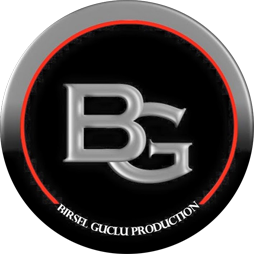
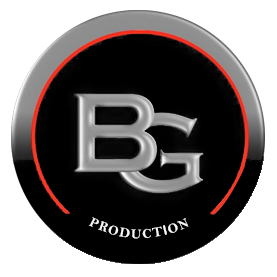
fnished

diff --git a/screens/CountDownScreen.js b/screens/CountDownScreen.js
@@ -1,6 +1,6 @@
 import React ,{ Component } from 'react';
 import {View , Text, StyleSheet,Dimensions, Platform, Image } from 'react-native';
-import { Constants, Permissions, Notifications } from 'expo';
+import { Constants, Permissions, Notifications, FacebookAds } from 'expo';
 import { connect } from 'react-redux';
 import * as actions from '../actions';
 import PercentageCircle from 'react-native-percentage-circle';
@@ -44,6 +44,18 @@ class CountDownScreen extends Component {
              );
              return;
              }
+
+            if(Platform.OS === 'android'){
+              FacebookAds.InterstitialAdManager.showAd('449422098768727_449426018768335')
+                 .then(didClick => {})
+                 .catch(error => {})
+            }else{
+              FacebookAds.InterstitialAdManager.showAd('449422098768727_449426618768275')
+                 .then(didClick => {console.log("clicked ad");})
+                 .catch(error => {console.log("error:", error);})
+            }
+
+
          }
 
 
@@ -162,18 +174,42 @@ class CountDownScreen extends Component {
           }
         }
 
+        _renderBanner(){
+            if(Platform.OS === 'android'){
+              return(
+              <FacebookAds.BannerView
+                placementId="449422098768727_449423225435281"
+                type="standard"
+                onPress={() => console.log('click')}
+                onError={(err) => console.log('error', err)}
+              />
+          )
+          }else{
+            return(
+              <FacebookAds.BannerView
+                placementId="449422098768727_449426432101627"
+                type="standard"
+                onPress={() => console.log('click')}
+                onError={(err) => console.log('error', err)}
+              />
+            )
+
+
+          }
+        }
+
         _renderCircle(){
           if(Platform.OS === 'android'){
             return(
                 <AndroidCircle radius={105} percent={this.state.percent} borderWidth ={12} color={"#640204"} innerColor={"#7E8B7D"}>
-                  <Text style={[styles.percentText]}> {this.state.status == "idle" ? "Sayacı Başlatınız" :  this.state.percent + " %"  }</Text>
+                  <Text style={[styles.percentText]}> {this.state.status == "idle" ? "Sayacı Başlatınız" :  " % " + this.state.percent  }</Text>
                   <Text style={[styles.countDownText]}>{this.state.humanize ? this.state.humanize : this.secondToHuminzeString(this.props.selectedRoute.Km) } </Text>
                </AndroidCircle>
             )
           }else{
             return(
                 <PercentageCircle radius={105} percent={this.state.percent} borderWidth ={12} color={"#640204"} innerColor={"#7E8B7D"}>
-                  <Text style={[styles.percentText]}> {this.state.status == "idle" ? "Sayacı Başlatınız" :  this.state.percent + " %"  }</Text>
+                  <Text style={[styles.percentText]}> {this.state.status == "idle" ? "Sayacı Başlatınız" : " % " + this.state.percent  }</Text>
                   <Text style={[styles.countDownText]}>{this.state.humanize ? this.state.humanize : this.secondToHuminzeString(this.props.selectedRoute.Km) } </Text>
                </PercentageCircle>
             )
@@ -202,22 +238,24 @@ class CountDownScreen extends Component {
            <Card style={styles.cardStyle}>
             <Text style={styles.cardText}>Toplam Mesafe</Text>
             <View style={{flexDirection:'row',justifyContent :'center', alignItems:'flex-end'}}>
-            <Text style={{fontSize:21, fontWeight: '700',color:'#fff'}}>{this._ınfoKM()} </Text>
-            <Text style={{fontSize:13,fontWeight:'700', color :'#fff',paddingBottom:2 }}>KM</Text>
+            <Text style={{fontSize:24, fontWeight: '700',color:'#fff'}}>{this._ınfoKM()} </Text>
+            <Text style={{fontSize:18,fontWeight:'700', color :'#fff',paddingBottom:2 }}>KM</Text>
             </View>
            </Card>
            <Card style={styles.cardStyle}>
             <Text style={styles.cardText}>Tahmini Varış</Text>
             <View style={{flexDirection:'row',justifyContent :'center', alignItems:'flex-end'}}>
-            <Text style={{fontSize:21, fontWeight: '700',color:'#fff'}}>{this.state.humanizeEndTime} </Text>
+            <Text style={{fontSize:24, fontWeight: '700',color:'#fff',textAlign:'center'}}>{this.state.humanizeEndTime} </Text>
             </View>
            </Card>
           </View>
+
           <View style={{height: 70, width : width ,paddingTop:20}}>
             <Button onPress={() => this._startTimer()}>{this._renderButton()}</Button>
           </View>
         </View>
       </View>
+      {this._renderBanner()}
       </Image>
     );
   }
@@ -234,6 +272,7 @@ const styles ={
   percentText: {
     fontSize: 21,
     paddingBottom : 15,
+    fontWeight:'600',
     alignItems : 'center',
     alignSelf: 'center',
     color: "#fff"
@@ -241,7 +280,7 @@ const styles ={
   },
   countDownText :{
     fontSize : 24,
-    fontWeight : '500',
+    fontWeight : '600',
     alignItems : 'center',
     alignSelf :'center',
     color: "#fff"
@@ -274,9 +313,9 @@ const styles ={
 
   },
   cardText:{
-    fontSize : 13,
+    fontSize : 14,
     color :'#fff',
-    fontWeight :'500',
+    fontWeight :'700',
     paddingLeft:10,
     paddingRight : 10
   }

diff --git a/screens/OldTripsScreen.js b/screens/OldTripsScreen.js
@@ -31,21 +31,24 @@ class OldTripsScreen extends Component {
 	}
 
 
+
   static navigationOptions = ({ navigation }) => {
+    const { params = {} } = navigation.state;
     return {
-      headerTitle : 'Otoban Sayaç',
-      headerRight: <Icon
-        iconStyle = {styles.iconStyle}
-        name='info-outline'
-        color="rgba(0,122,255,1)"
-        onPress={() => navigation.navigate('info')}
-        />,
-      headerLeft : null,
+      headerTitle : 'Otoyol Süresi',
+      headerLeft: <Text style={{fontSize:12,fontWeight:'500', color: '#fff', width:70, alignItems:'center',textAlign:'center',marginLeft:10}} onPress={() => navigation.navigate('info')}>Hakkımızda</Text>,
+      headerTitleStyle: {
+        fontSize : 21,
+        alignSelf :'center',
+        textAlign: 'center'
+      },
+        headerRight: <Text style={{fontSize:12,fontWeight:'500', color: '#fff', width:60, alignItems:'center',textAlign:'center',marginRight:10 }} onPress={()=> params.handleRemove()}> Kayıtlı verileri sil </Text>,
         headerTintColor: "#fff",
         headerStyle : {
           marginTop : Platform.OS === 'android' ? 24 : 0,
           paddingBottom: 10,
-          backgroundColor : "#267689"
+          backgroundColor : "#267689",
+
         },
         tabBarVisible : false,
     }
@@ -66,6 +69,14 @@ class OldTripsScreen extends Component {
     }
 
   }
+
+  _removeAllItems() {
+      this.props.removeAllTrips();
+    }
+
+    componentDidMount() {
+     this.props.navigation.setParams({ handleRemove: this._removeAllItems.bind(this) });
+   }
 
   removeItem = (item,secId,rowId) => {
       this.props.removeOldTrip(rowId);
@@ -168,7 +179,7 @@ const styles = {
     flex :1
   },
   iconStyle : {
-    marginRight : 10
+    marginLeft : 10
   },
 	rowFront: {
 		alignItems: 'center',
@@ -177,13 +188,16 @@ const styles = {
 		borderBottomColor: '#95a5a6',
 		borderBottomWidth: 2,
 		justifyContent: 'space-between',
-		height: 50,
+		height: 60,
 	},
   warningText : {
     color : '#e8210b',
-    fontSize :14,
-    alignItems : 'flex-end',
-    paddingRight:10
+    fontSize :16,
+    fontWeight:'500',
+    width: width / 3 - 10 ,
+    justifyContent : 'flex-end',
+    textAlign:'right',
+    paddingRight:5
   },
 	rowBack: {
 		alignItems: 'center',
@@ -194,9 +208,11 @@ const styles = {
 		paddingLeft: 15,
 	},
   removeText :{
-    paddingLeft: 10,
+    paddingLeft: 5,
     alignContent:'flex-start',
-    fontSize :14,
+    fontSize :16,
+    fontWeight:'500',
+    width: width * 2 / 3 + 5,
     color : '#000'
   },
   skipButton:{
@@ -211,6 +227,8 @@ const styles = {
     marginTop:50,
     backgroundColor :'rgba(0,0,0,0)',
     alignItems:'center',
+    justifyContent:'center',
+    textAlign:'center',
     alignSelf :'center',
     color: '#C9CFD4'
   },

diff --git a/screens/InfoScreen.js b/screens/InfoScreen.js
@@ -20,7 +20,11 @@ class InfoScreen extends Component {
       <Image source={require('../img/form.png')}
       style={styles.backgroundImage}>
         <View style={styles.container}>
-          <Image source={require('../img/guclu.png')} style={{width:170, height:170}}/>
+          <Text style={{fontSize: 32, color:'#000', fontWeight:'700', textAlign:'center', justifyContent:'center', backgroundColor:'rgba(0,0,0,0)',paddingBottom:40}}>Ana sponsor </Text>
+          <Image source={require('../img/guclu.png')} style={{width:150, height:150,marginBottom:10}}/>
+          <View style={{borderBottomWidth:1, borderColor:'#D4E1F3', width:270 }}></View>
+          <Image source={require('../img/logo2.png')} style={{width:150, height:150, marginTop : 10}}/>
+          <Text style={{backgroundColor:'rgba(0,0,0,0)', textAlign:'center',fontSize:19, marginTop: 20,alignSelf:'center',fontWeight:'600'}}>İletişim :  otoyolsuresi@gmail.com </Text>
          </View>
        </Image>
 

diff --git a/screens/TripFormScreen.js b/screens/TripFormScreen.js
@@ -232,11 +232,12 @@ const styles ={
    width : width,
  },
  pickerLabel:{
-  fontSize: 18,
-  fontWeight: '500',
+  fontSize: 17,
+  fontWeight: '700',
   textAlign : 'justify',
   backgroundColor :"rgba(0,0,0,0)",
   alignItems: 'center',
+  justifyContent:'center',
   height :40,
   paddingTop: 5,
   width : 140
@@ -253,11 +254,13 @@ const styles ={
    resizeMode: 'cover'
    },
 textInputStyle:{
-   justifyContent: 'flex-start',
+   justifyContent: 'center',
    alignItems :'center',
    width: width-150,
    paddingLeft : 5,
-   fontSize : 16,
+   textAlign:'center',
+   fontSize : 18,
+   fontWeight:'600',
    color : "#fff",
    height:30
  }

diff --git a/App.js b/App.js
@@ -49,6 +49,7 @@ export default class App extends React.Component {
        require('./img/count.png'),
        require('./img/giris.png'),
        require('./img/guclu.png'),
+       require('./img/logo2.png'),
 
      ]);
 
@@ -93,7 +94,7 @@ export default class App extends React.Component {
     tabBarOptions : {
       activeTintColor: '#e91e63',
     }
-  } );
+  });
 
 
 

diff --git a/reducers/TripListReducer.js b/reducers/TripListReducer.js
@@ -12,6 +12,9 @@ export default (state = [] ,action) => {
         return [...state.slice(0,parseInt(action.payload)),
         ...state.slice(parseInt(action.payload)+1)];
         break;
+      case 'remove_AllTrips':
+        return [];
+        break;
       default:
       return state;
     }

diff --git a/src/Button.js b/src/Button.js
@@ -27,6 +27,7 @@ const styles = {
     flex: 1,
     alignSelf: 'stretch',
     alignItems:'center',
+    justifyContent:'center',
     backgroundColor: '#4CB8C4',
     borderRadius: 7,
     borderWidth: 1,

diff --git a/actions/index.js b/actions/index.js
@@ -24,3 +24,9 @@ export const removeOldTrip = (index) => {
       payload: index
     }
 }
+
+export const removeAllTrips = () => {
+    return {
+      type: 'remove_AllTrips'
+    }
+}
